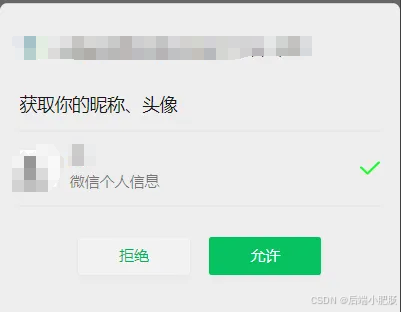
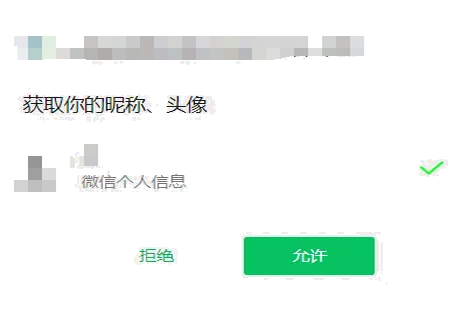
教程配图：去水印、灰底改纯白、横向拉伸到 3:2
移除右下角 CSDN 水印与窗口深灰边框，把 (238,238,238) 等中性浅灰背景统一替换为纯白，保留文字/绿色按钮/勾选；图片由 401x312 横向拉伸到 468x312（3:2），教程显示宽度同步调到 420。

diff --git a/TUTORIAL.md b/TUTORIAL.md
@@ -55,7 +55,7 @@
 
 上面第 3 步会看到的授权页面长这样：确认「微信个人信息」已勾选，然后点右边绿色的**「允许」**（不同版本里这个按钮也可能写作「确认授权」）。
 
-<img src="docs/img/oauth-allow.png" width="360" alt="微信授权页面：点绿色的允许">
+<img src="docs/img/oauth-allow.png" width="420" alt="微信授权页面：点绿色的允许">
 
 说人话就是：**先让微信自己认一次门，程序以后才能替你进门。** 没有这一步，程序拿不到任何有效凭证，会一直卡在「等待取号」，怎么等都没用。
 
